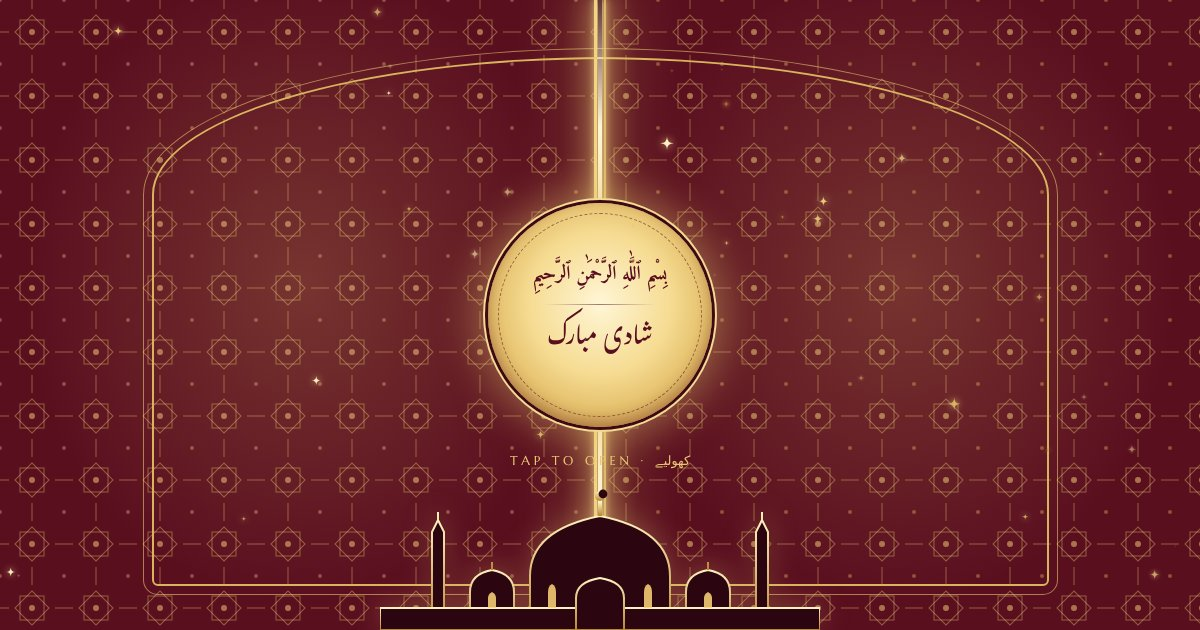
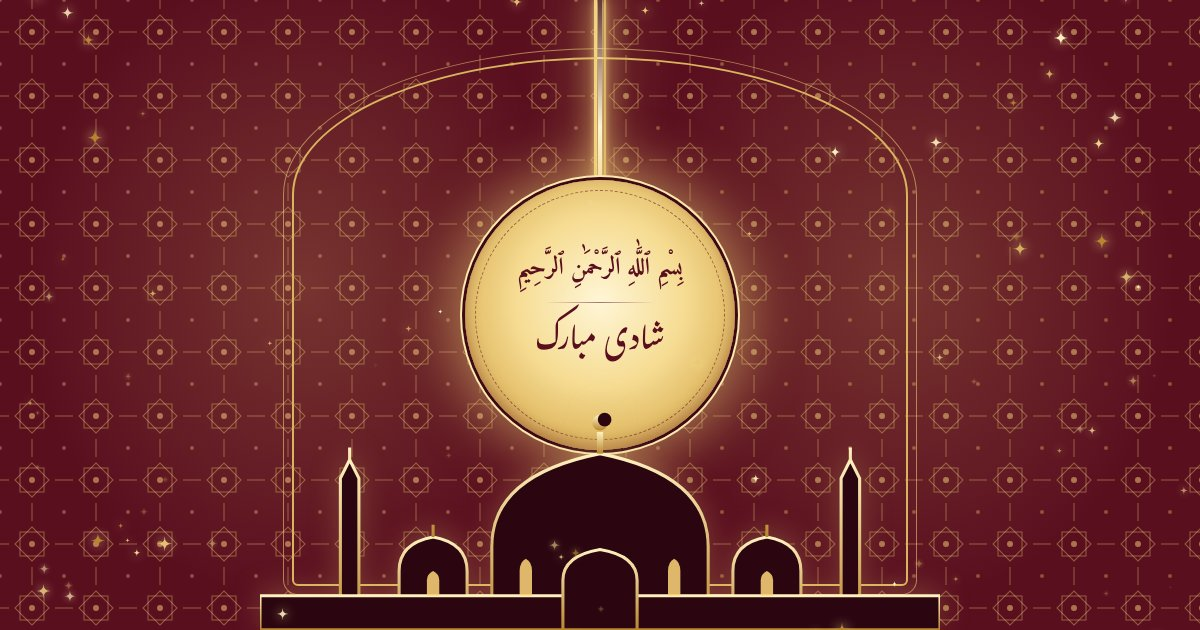
Wedding card: desktop layout, tap-to-open hint, more sparkles beside the card
Claude-Session: https://claude.ai/code/session_0114uiG5UvM8er5AcL78Nz6p

diff --git a/wedding-card/index.html b/wedding-card/index.html
@@ -52,7 +52,7 @@ body {
   font-family: var(--f-body);
   font-size: 17px;
   line-height: 1.6;
-  padding-inline: 16px;
+  padding-inline: clamp(16px, 5vw, 48px);
   padding-block: 40px 56px;
 }
 
@@ -145,12 +145,13 @@ canvas.burst { position: fixed; inset: 0; width: 100%; height: 100%; z-index: 40
 .door.left { left: 0; transform-origin: left center; box-shadow: inset -3px 0 0 #e9c873, inset -10px 0 0 var(--ground-deep), inset -12px 0 0 #b8862e; }
 .door.right { right: 0; transform-origin: right center; box-shadow: inset 3px 0 0 #e9c873, inset 10px 0 0 var(--ground-deep), inset 12px 0 0 #b8862e; }
 .door::before {             /* half of a mehrab outline on each door */
-  content: ""; position: absolute; top: 9%; bottom: 7%; width: 150%;
+  content: ""; position: absolute; top: 9%; bottom: 7%; width: var(--aw);
   border: 2px solid #d9b45e; outline: 1px solid rgba(233,200,115,.6); outline-offset: 8px;
   border-radius: 50% 50% 6px 6px / 26% 26% 6px 6px;
 }
-.door.left::before { left: 25%; }
-.door.right::before { right: 25%; }
+.gate { --aw: min(76vw, 620px); }
+.door.left::before { right: calc(var(--aw) / -2); }
+.door.right::before { left: calc(var(--aw) / -2); }
 .gate.open .door.left { transform: rotateY(-105deg); filter: brightness(.6); }
 .gate.open .door.right { transform: rotateY(105deg); filter: brightness(.6); }
 .gate.open { pointer-events: none; }
@@ -193,8 +194,8 @@ canvas.burst { position: fixed; inset: 0; width: 100%; height: 100%; z-index: 40
 .gate-deco { position: absolute; inset: 0; z-index: 2; pointer-events: none; transition: opacity .5s; }
 .gate.open .gate-deco { opacity: 0; }
 .lantern { position: absolute; top: 0; width: 42px; transform-origin: 50% 0; animation: swing 4s ease-in-out infinite; }
-.lantern.l1 { left: 9%; }
-.lantern.l2 { right: 9%; animation-delay: -2s; }
+.lantern.l1 { left: max(4%, calc(50% - var(--aw) / 2 - 64px)); }
+.lantern.l2 { right: max(4%, calc(50% - var(--aw) / 2 - 64px)); animation-delay: -2s; }
 .lantern .glow { animation: flicker 2.4s ease-in-out infinite; }
 @keyframes swing { 0%, 100% { transform: rotate(4deg); } 50% { transform: rotate(-4deg); } }
 @keyframes flicker { 0%, 100% { opacity: .85; } 40% { opacity: 1; } 60% { opacity: .7; } }
@@ -294,7 +295,27 @@ h2 { font-family: var(--f-display); font-weight: 400; font-size: 1.1rem; letter-
 .muntazir > div { min-width: 0; }
 
 
+@media (min-width: 900px) {
+  body { font-size: 18px; padding-block: 56px 72px; }
+  .card { max-width: 860px; padding: 120px 72px 60px; border-radius: 50% 50% 16px 16px / 250px 250px 16px 16px; }
+  .card::before { border-radius: 50% 50% 10px 10px / 238px 238px 10px 10px; }
+  .stack { gap: 34px; }
+  .bismillah { font-size: 2.5rem; }
+  .couple { display: grid; grid-template-columns: 1fr auto 1fr; align-items: start; column-gap: 28px; width: 100%; }
+  .couple > .eyebrow { grid-column: 1 / -1; justify-self: center; margin-bottom: 10px; }
+  .pair { min-width: 0; }
+  .pair-sep { width: 1px; max-width: none; height: auto; align-self: stretch; margin-block: 0; background: linear-gradient(180deg, transparent, var(--zari), transparent); }
+  .events { max-width: 640px; }
+  .lantern { width: 58px; }
+  .masjid { width: min(680px, 100%); }
+  .seal { width: 270px; height: 270px; margin: -135px 0 0 -135px; }
+  .seal .bism { font-size: 1.5rem; }
+  .seal .ur { font-size: 2.15rem; }
+  .gate-hint { top: calc(50% + 165px); font-size: .9rem; }
+}
 @media (max-width: 520px) {
+  .replay { padding: 8px 12px; font-size: 1rem; letter-spacing: 0; }
+  .replay-text { display: none; }
   body { font-size: 16px; padding-block: 24px 40px; }
   .card { padding: 72px 22px 36px; border-radius: 50% 50% 12px 12px / 120px 120px 12px 12px; }
   .card::before { border-radius: 50% 50% 6px 6px / 110px 110px 6px 6px; inset: 9px; }
@@ -311,7 +332,7 @@ h2 { font-family: var(--f-display); font-weight: 400; font-size: 1.1rem; letter-
   <div class="door right"></div>
   <div class="seam"></div>
   <div class="seal"><span class="bism" lang="ar">بِسْمِ ٱللَّٰهِ ٱلرَّحْمَٰنِ ٱلرَّحِيمِ</span><span class="seal-line"></span><span class="ur" lang="ur">شادی مبارک</span></div>
-  <p class="gate-hint">Tap to open · کھولیے</p>
+  <p class="gate-hint">Tap to open</p>
   <div class="gate-deco" aria-hidden="true">
     <svg class="lantern l1" viewBox="0 0 42 130" aria-hidden="true">
       <line x1="21" y1="0" x2="21" y2="44" stroke="#d9b45e" stroke-width="1.5" stroke-dasharray="3 2"/>
@@ -361,7 +382,7 @@ h2 { font-family: var(--f-display); font-weight: 400; font-size: 1.1rem; letter-
 </div>
 <canvas class="sky" id="sky" aria-hidden="true"></canvas>
 <canvas class="burst" id="burst" aria-hidden="true"></canvas>
-<button class="replay" id="replay" type="button" hidden>↺ Phir se kholiye</button>
+<button class="replay" id="replay" type="button" aria-label="Phir se kholiye" hidden>↺<span class="replay-text"> Phir se kholiye</span></button>
 
 <main class="card">
   <span class="glint g1"></span><span class="glint g2"></span><span class="glint g3"></span><span class="glint g4"></span><span class="glint g5"></span>
@@ -518,13 +539,19 @@ function star(ctx, x, y, r, a) {
 var sky = document.getElementById("sky"), skyCtx, twinkles = [];
 function seedSky() {
   skyCtx = fitCanvas(sky);
-  var n = Math.round(innerWidth * innerHeight / 9000);
+  var n = Math.round(innerWidth * innerHeight / 7000);
   twinkles = [];
-  for (var i = 0; i < n; i++) twinkles.push({
-    x: Math.random() * innerWidth, y: Math.random() * innerHeight,
-    r: 2 + Math.random() * 5, ph: Math.random() * 6.28, sp: .6 + Math.random() * 1.4,
-    c: GOLDS[i % GOLDS.length], dy: .05 + Math.random() * .15
-  });
+  function add(x, i) {
+    twinkles.push({ x: x, y: Math.random() * innerHeight,
+      r: 2.5 + Math.random() * 5.5, ph: Math.random() * 6.28, sp: .6 + Math.random() * 1.6,
+      c: GOLDS[i % GOLDS.length], dy: .06 + Math.random() * .2 });
+  }
+  for (var i = 0; i < n; i++) add(Math.random() * innerWidth, i);
+  /* extra glitter in the red space beside the card */
+  var card = document.querySelector(".card").getBoundingClientRect();
+  var side = Math.max(0, card.left - 4);
+  var extra = Math.round(side * innerHeight / 2200);
+  for (var j = 0; j < extra; j++) add(j % 2 ? Math.random() * side : innerWidth - Math.random() * side, j);
 }
 function drawSky(t) {
   skyCtx.clearRect(0, 0, innerWidth, innerHeight);
@@ -533,7 +560,7 @@ function drawSky(t) {
     var a = reduceMotion ? .7 : Math.max(0, Math.sin(t / 1000 * p.sp + p.ph));
     if (!reduceMotion) { p.y -= p.dy; if (p.y < -10) p.y = innerHeight + 10; }
     skyCtx.fillStyle = p.c;
-    skyCtx.shadowColor = "rgba(255,230,160,.9)"; skyCtx.shadowBlur = 8 * a;
+    skyCtx.shadowColor = "rgba(255,230,160,1)"; skyCtx.shadowBlur = 12 * a;
     star(skyCtx, p.x, p.y, p.r * (.5 + a * .5), a);
   }
   skyCtx.globalAlpha = 1;
